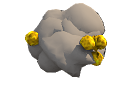
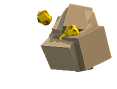
Phase 8 fixes: ground at 2x resolution, drier prairie, light sand, angular rocks and gold veins
The terrain layer was built at 64 px per tile and scaled up without smoothing while sprites
come from 128 px assets, so the ground looked blurry next to them. It is now built at 2x.
Grass is dry straw/khaki with sparse green patches, sand is a separate pale texture, rocks and
gold veins are angular sandstone slabs instead of smooth blobs. ROADMAP phase table renumbered
(new phase 9: UI like the original).

Claude-Session: https://claude.ai/code/session_01JErzzkwvXvthRwh7LyPnGT

diff --git a/assets/manifest.js b/assets/manifest.js
@@ -1,2 +1,2 @@
 // Wygenerowane przez tools/art/build_assets.js, nie edytować ręcznie.
-window.ASSETS = {"ground_ochre":{"file":"assets/terrain/ground_ochre.png","tw":128,"th":64,"cols":6,"rows":6,"period":6},"ground_olive":{"file":"assets/terrain/ground_olive.png","tw":128,"th":64,"cols":6,"rows":6,"period":6},"ground_dirt":{"file":"assets/terrain/ground_dirt.png","tw":128,"th":64,"cols":6,"rows":6,"period":6},"tree_oak0":{"file":"assets/trees/tree_oak0.png","shadow":"assets/trees/tree_oak0_shadow.png","w":259,"h":233,"ax":184,"ay":166},"tree_oak1":{"file":"assets/trees/tree_oak1.png","shadow":"assets/trees/tree_oak1_shadow.png","w":271,"h":232,"ax":186,"ay":166},"tree_pine":{"file":"assets/trees/tree_pine.png","shadow":"assets/trees/tree_pine_shadow.png","w":264,"h":239,"ax":184,"ay":185},"tree_dead":{"file":"assets/trees/tree_dead.png","shadow":"assets/trees/tree_dead_shadow.png","w":150,"h":172,"ax":131,"ay":135},"prop_rock0":{"file":"assets/props/prop_rock0.png","shadow":"assets/props/prop_rock0_shadow.png","w":84,"h":54,"ax":47,"ay":35},"prop_rock1":{"file":"assets/props/prop_rock1.png","shadow":"assets/props/prop_rock1_shadow.png","w":63,"h":44,"ax":33,"ay":26},"prop_bush0":{"file":"assets/props/prop_bush0.png","shadow":"assets/props/prop_bush0_shadow.png","w":135,"h":87,"ax":79,"ay":55},"prop_bush1":{"file":"assets/props/prop_bush1.png","shadow":"assets/props/prop_bush1_shadow.png","w":97,"h":65,"ax":58,"ay":38},"prop_tuft0":{"file":"assets/props/prop_tuft0.png","shadow":"assets/props/prop_tuft0_shadow.png","w":21,"h":41,"ax":11,"ay":36},"prop_tuft1":{"file":"assets/props/prop_tuft1.png","shadow":"assets/props/prop_tuft1_shadow.png","w":20,"h":33,"ax":10,"ay":29},"gold_vein0":{"file":"assets/props/gold_vein0.png","shadow":"assets/props/gold_vein0_shadow.png","w":117,"h":90,"ax":78,"ay":61},"gold_vein1":{"file":"assets/props/gold_vein1.png","shadow":"assets/props/gold_vein1_shadow.png","w":124,"h":84,"ax":72,"ay":51},"carcass":{"file":"assets/props/carcass.png","shadow":"assets/props/carcass_shadow.png","w":99,"h":70,"ax":55,"ay":44},"bld_house_us":{"file":"assets/buildings/bld_house_us.png","shadow":"assets/buildings/bld_house_us_shadow.png","w":314,"h":237,"ax":171,"ay":159},"bld_hq_us":{"file":"assets/buildings/bld_hq_us.png","shadow":"assets/buildings/bld_hq_us_shadow.png","w":472,"h":388,"ax":275,"ay":278},"bld_barracks_us":{"file":"assets/buildings/bld_barracks_us.png","shadow":"assets/buildings/bld_barracks_us_shadow.png","w":324,"h":232,"ax":174,"ay":152},"bld_factory_us":{"file":"assets/buildings/bld_factory_us.png","shadow":"assets/buildings/bld_factory_us_shadow.png","w":300,"h":222,"ax":164,"ay":146},"bld_storehouse_us":{"file":"assets/buildings/bld_storehouse_us.png","shadow":"assets/buildings/bld_storehouse_us_shadow.png","w":305,"h":188,"ax":177,"ay":110},"bld_zagroda_us":{"file":"assets/buildings/bld_zagroda_us.png","shadow":"assets/buildings/bld_zagroda_us_shadow.png","w":291,"h":173,"ax":160,"ay":101},"bld_farm_us":{"file":"assets/buildings/bld_farm_us.png","shadow":"assets/buildings/bld_farm_us_shadow.png","w":276,"h":159,"ax":149,"ay":88},"bld_house_ban":{"file":"assets/buildings/bld_house_ban.png","shadow":"assets/buildings/bld_house_ban_shadow.png","w":335,"h":238,"ax":193,"ay":161},"bld_hq_ban":{"file":"assets/buildings/bld_hq_ban.png","shadow":"assets/buildings/bld_hq_ban_shadow.png","w":488,"h":325,"ax":279,"ay":213},"bld_barracks_ban":{"file":"assets/buildings/bld_barracks_ban.png","shadow":"assets/buildings/bld_barracks_ban_shadow.png","w":331,"h":217,"ax":184,"ay":137},"bld_factory_ban":{"file":"assets/buildings/bld_factory_ban.png","shadow":"assets/buildings/bld_factory_ban_shadow.png","w":307,"h":221,"ax":174,"ay":146},"bld_storehouse_ban":{"file":"assets/buildings/bld_storehouse_ban.png","shadow":"assets/buildings/bld_storehouse_ban_shadow.png","w":305,"h":188,"ax":177,"ay":110},"bld_zagroda_ban":{"file":"assets/buildings/bld_zagroda_ban.png","shadow":"assets/buildings/bld_zagroda_ban_shadow.png","w":291,"h":173,"ax":160,"ay":101},"bld_farm_ban":{"file":"assets/buildings/bld_farm_ban.png","shadow":"assets/buildings/bld_farm_ban_shadow.png","w":276,"h":159,"ax":149,"ay":88},"bld_tepee_sx":{"file":"assets/buildings/bld_tepee_sx.png","shadow":"assets/buildings/bld_tepee_sx_shadow.png","w":311,"h":286,"ax":233,"ay":215},"bld_hq_sx":{"file":"assets/buildings/bld_hq_sx.png","shadow":"assets/buildings/bld_hq_sx_shadow.png","w":462,"h":409,"ax":334,"ay":308},"bld_barracks_sx":{"file":"assets/buildings/bld_barracks_sx.png","shadow":"assets/buildings/bld_barracks_sx_shadow.png","w":390,"h":341,"ax":278,"ay":256},"bld_storehouse_sx":{"file":"assets/buildings/bld_storehouse_sx.png","shadow":"assets/buildings/bld_storehouse_sx_shadow.png","w":223,"h":158,"ax":132,"ay":101},"bld_farm_sx":{"file":"assets/buildings/bld_farm_sx.png","shadow":"assets/buildings/bld_farm_sx_shadow.png","w":276,"h":159,"ax":149,"ay":88},"worker":{"shadow":"assets/units/worker_shadow.png","fw":91,"fh":82,"cols":4,"rows":8,"pad":1,"ax":64,"ay":61,"dirs":[0,45,90,135,180,225,270,315],"phases":4,"file_p":"assets/units/worker_p.png","file_e":"assets/units/worker_e.png"},"piechota":{"shadow":"assets/units/piechota_shadow.png","fw":100,"fh":88,"cols":4,"rows":8,"pad":1,"ax":63,"ay":65,"dirs":[0,45,90,135,180,225,270,315],"phases":4,"file_p":"assets/units/piechota_p.png","file_e":"assets/units/piechota_e.png"},"desperado":{"shadow":"assets/units/desperado_shadow.png","fw":101,"fh":88,"cols":4,"rows":8,"pad":1,"ax":64,"ay":65,"dirs":[0,45,90,135,180,225,270,315],"phases":4,"file_p":"assets/units/desperado_p.png","file_e":"assets/units/desperado_e.png"},"bandleader":{"shadow":"assets/units/bandleader_shadow.png","fw":109,"fh":95,"cols":4,"rows":8,"pad":1,"ax":69,"ay":70,"dirs":[0,45,90,135,180,225,270,315],"phases":4,"file_p":"assets/units/bandleader_p.png","file_e":"assets/units/bandleader_e.png"},"squaw":{"shadow":"assets/units/squaw_shadow.png","fw":79,"fh":70,"cols":4,"rows":8,"pad":1,"ax":54,"ay":53,"dirs":[0,45,90,135,180,225,270,315],"phases":4,"file_p":"assets/units/squaw_p.png","file_e":"assets/units/squaw_e.png"},"wojownik":{"shadow":"assets/units/wojownik_shadow.png","fw":86,"fh":77,"cols":4,"rows":8,"pad":1,"ax":59,"ay":58,"dirs":[0,45,90,135,180,225,270,315],"phases":4,"file_p":"assets/units/wojownik_p.png","file_e":"assets/units/wojownik_e.png"},"lucznik":{"shadow":"assets/units/lucznik_shadow.png","fw":90,"fh":86,"cols":4,"rows":8,"pad":1,"ax":63,"ay":63,"dirs":[0,45,90,135,180,225,270,315],"phases":4,"file_p":"assets/units/lucznik_p.png","file_e":"assets/units/lucznik_e.png"},"medicine":{"shadow":"assets/units/medicine_shadow.png","fw":86,"fh":77,"cols":4,"rows":8,"pad":1,"ax":59,"ay":58,"dirs":[0,45,90,135,180,225,270,315],"phases":4,"file_p":"assets/units/medicine_p.png","file_e":"assets/units/medicine_e.png"},"wodz":{"shadow":"assets/units/wodz_shadow.png","fw":93,"fh":83,"cols":4,"rows":8,"pad":1,"ax":64,"ay":63,"dirs":[0,45,90,135,180,225,270,315],"phases":4,"file_p":"assets/units/wodz_p.png","file_e":"assets/units/wodz_e.png"},"jezdiec":{"shadow":"assets/units/jezdiec_shadow.png","fw":168,"fh":137,"cols":4,"rows":8,"pad":1,"ax":116,"ay":94,"dirs":[0,45,90,135,180,225,270,315],"phases":4,"file_p":"assets/units/jezdiec_p.png","file_e":"assets/units/jezdiec_e.png"},"konnobanda":{"shadow":"assets/units/konnobanda_shadow.png","fw":168,"fh":140,"cols":4,"rows":8,"pad":1,"ax":116,"ay":97,"dirs":[0,45,90,135,180,225,270,315],"phases":4,"file_p":"assets/units/konnobanda_p.png","file_e":"assets/units/konnobanda_e.png"},"horse":{"shadow":"assets/units/horse_shadow.png","fw":168,"fh":136,"cols":4,"rows":8,"pad":1,"ax":116,"ay":93,"dirs":[0,45,90,135,180,225,270,315],"phases":4,"file":"assets/units/horse.png"},"bizon":{"shadow":"assets/units/bizon_shadow.png","fw":162,"fh":111,"cols":1,"rows":8,"pad":1,"ax":95,"ay":71,"dirs":[0,45,90,135,180,225,270,315],"phases":1,"file":"assets/units/bizon.png"},"bydlo":{"shadow":"assets/units/bydlo_shadow.png","fw":139,"fh":100,"cols":1,"rows":8,"pad":1,"ax":87,"ay":64,"dirs":[0,45,90,135,180,225,270,315],"phases":1,"file":"assets/units/bydlo.png"},"frontiersman":{"shadow":"assets/units/frontiersman_shadow.png","fw":91,"fh":82,"cols":4,"rows":8,"pad":1,"ax":64,"ay":61,"dirs":[0,45,90,135,180,225,270,315],"phases":4,"file_p":"assets/units/frontiersman_p.png","file_e":"assets/units/frontiersman_e.png"},"frontierswoman":{"shadow":"assets/units/frontierswoman_shadow.png","fw":80,"fh":70,"cols":4,"rows":8,"pad":1,"ax":55,"ay":53,"dirs":[0,45,90,135,180,225,270,315],"phases":4,"file_p":"assets/units/frontierswoman_p.png","file_e":"assets/units/frontierswoman_e.png"},"szeryf":{"shadow":"assets/units/szeryf_shadow.png","fw":109,"fh":95,"cols":4,"rows":8,"pad":1,"ax":69,"ay":70,"dirs":[0,45,90,135,180,225,270,315],"phases":4,"file_p":"assets/units/szeryf_p.png","file_e":"assets/units/szeryf_e.png"},"armata":{"shadow":"assets/units/armata_shadow.png","fw":166,"fh":115,"cols":1,"rows":8,"pad":1,"ax":101,"ay":74,"dirs":[0,45,90,135,180,225,270,315],"phases":1,"file_p":"assets/units/armata_p.png","file_e":"assets/units/armata_e.png"},"bld_bank_us":{"file":"assets/buildings/bld_bank_us.png","shadow":"assets/buildings/bld_bank_us_shadow.png","w":365,"h":251,"ax":210,"ay":167},"bld_ranch_us":{"file":"assets/buildings/bld_ranch_us.png","shadow":"assets/buildings/bld_ranch_us_shadow.png","w":363,"h":284,"ax":205,"ay":172},"ground_grass":{"file":"assets/terrain/ground_grass.png","tw":128,"th":64,"cols":6,"rows":6,"period":6},"ground_gravel":{"file":"assets/terrain/ground_gravel.png","tw":128,"th":64,"cols":6,"rows":6,"period":6},"ground_water":{"file":"assets/terrain/ground_water.png","tw":128,"th":64,"cols":6,"rows":6,"period":6},"prop_tuft2":{"file":"assets/props/prop_tuft2.png","shadow":"assets/props/prop_tuft2_shadow.png","w":16,"h":31,"ax":5,"ay":25},"prop_rock2":{"file":"assets/props/prop_rock2.png","shadow":"assets/props/prop_rock2_shadow.png","w":94,"h":73,"ax":53,"ay":52},"prop_reed0":{"file":"assets/props/prop_reed0.png","shadow":"assets/props/prop_reed0_shadow.png","w":79,"h":78,"ax":57,"ay":54},"prop_reed1":{"file":"assets/props/prop_reed1.png","shadow":"assets/props/prop_reed1_shadow.png","w":73,"h":73,"ax":54,"ay":52},"prop_reed2":{"file":"assets/props/prop_reed2.png","shadow":"assets/props/prop_reed2_shadow.png","w":87,"h":96,"ax":66,"ay":70}};
+window.ASSETS = {"ground_ochre":{"file":"assets/terrain/ground_ochre.png","tw":128,"th":64,"cols":6,"rows":6,"period":6},"ground_olive":{"file":"assets/terrain/ground_olive.png","tw":128,"th":64,"cols":6,"rows":6,"period":6},"ground_dirt":{"file":"assets/terrain/ground_dirt.png","tw":128,"th":64,"cols":6,"rows":6,"period":6},"tree_oak0":{"file":"assets/trees/tree_oak0.png","shadow":"assets/trees/tree_oak0_shadow.png","w":259,"h":233,"ax":184,"ay":166},"tree_oak1":{"file":"assets/trees/tree_oak1.png","shadow":"assets/trees/tree_oak1_shadow.png","w":271,"h":232,"ax":186,"ay":166},"tree_pine":{"file":"assets/trees/tree_pine.png","shadow":"assets/trees/tree_pine_shadow.png","w":264,"h":239,"ax":184,"ay":185},"tree_dead":{"file":"assets/trees/tree_dead.png","shadow":"assets/trees/tree_dead_shadow.png","w":150,"h":172,"ax":131,"ay":135},"prop_rock0":{"file":"assets/props/prop_rock0.png","shadow":"assets/props/prop_rock0_shadow.png","w":97,"h":62,"ax":58,"ay":41},"prop_rock1":{"file":"assets/props/prop_rock1.png","shadow":"assets/props/prop_rock1_shadow.png","w":67,"h":44,"ax":35,"ay":27},"prop_bush0":{"file":"assets/props/prop_bush0.png","shadow":"assets/props/prop_bush0_shadow.png","w":135,"h":87,"ax":79,"ay":55},"prop_bush1":{"file":"assets/props/prop_bush1.png","shadow":"assets/props/prop_bush1_shadow.png","w":97,"h":65,"ax":58,"ay":38},"prop_tuft0":{"file":"assets/props/prop_tuft0.png","shadow":"assets/props/prop_tuft0_shadow.png","w":21,"h":41,"ax":11,"ay":36},"prop_tuft1":{"file":"assets/props/prop_tuft1.png","shadow":"assets/props/prop_tuft1_shadow.png","w":20,"h":33,"ax":10,"ay":29},"gold_vein0":{"file":"assets/props/gold_vein0.png","shadow":"assets/props/gold_vein0_shadow.png","w":117,"h":89,"ax":64,"ay":59},"gold_vein1":{"file":"assets/props/gold_vein1.png","shadow":"assets/props/gold_vein1_shadow.png","w":122,"h":81,"ax":76,"ay":49},"carcass":{"file":"assets/props/carcass.png","shadow":"assets/props/carcass_shadow.png","w":99,"h":70,"ax":55,"ay":44},"bld_house_us":{"file":"assets/buildings/bld_house_us.png","shadow":"assets/buildings/bld_house_us_shadow.png","w":314,"h":237,"ax":171,"ay":159},"bld_hq_us":{"file":"assets/buildings/bld_hq_us.png","shadow":"assets/buildings/bld_hq_us_shadow.png","w":472,"h":388,"ax":275,"ay":278},"bld_barracks_us":{"file":"assets/buildings/bld_barracks_us.png","shadow":"assets/buildings/bld_barracks_us_shadow.png","w":324,"h":232,"ax":174,"ay":152},"bld_factory_us":{"file":"assets/buildings/bld_factory_us.png","shadow":"assets/buildings/bld_factory_us_shadow.png","w":300,"h":222,"ax":164,"ay":146},"bld_storehouse_us":{"file":"assets/buildings/bld_storehouse_us.png","shadow":"assets/buildings/bld_storehouse_us_shadow.png","w":305,"h":188,"ax":177,"ay":110},"bld_zagroda_us":{"file":"assets/buildings/bld_zagroda_us.png","shadow":"assets/buildings/bld_zagroda_us_shadow.png","w":291,"h":173,"ax":160,"ay":101},"bld_farm_us":{"file":"assets/buildings/bld_farm_us.png","shadow":"assets/buildings/bld_farm_us_shadow.png","w":276,"h":159,"ax":149,"ay":88},"bld_house_ban":{"file":"assets/buildings/bld_house_ban.png","shadow":"assets/buildings/bld_house_ban_shadow.png","w":335,"h":238,"ax":193,"ay":161},"bld_hq_ban":{"file":"assets/buildings/bld_hq_ban.png","shadow":"assets/buildings/bld_hq_ban_shadow.png","w":488,"h":325,"ax":279,"ay":213},"bld_barracks_ban":{"file":"assets/buildings/bld_barracks_ban.png","shadow":"assets/buildings/bld_barracks_ban_shadow.png","w":331,"h":217,"ax":184,"ay":137},"bld_factory_ban":{"file":"assets/buildings/bld_factory_ban.png","shadow":"assets/buildings/bld_factory_ban_shadow.png","w":307,"h":221,"ax":174,"ay":146},"bld_storehouse_ban":{"file":"assets/buildings/bld_storehouse_ban.png","shadow":"assets/buildings/bld_storehouse_ban_shadow.png","w":305,"h":188,"ax":177,"ay":110},"bld_zagroda_ban":{"file":"assets/buildings/bld_zagroda_ban.png","shadow":"assets/buildings/bld_zagroda_ban_shadow.png","w":291,"h":173,"ax":160,"ay":101},"bld_farm_ban":{"file":"assets/buildings/bld_farm_ban.png","shadow":"assets/buildings/bld_farm_ban_shadow.png","w":276,"h":159,"ax":149,"ay":88},"bld_tepee_sx":{"file":"assets/buildings/bld_tepee_sx.png","shadow":"assets/buildings/bld_tepee_sx_shadow.png","w":311,"h":286,"ax":233,"ay":215},"bld_hq_sx":{"file":"assets/buildings/bld_hq_sx.png","shadow":"assets/buildings/bld_hq_sx_shadow.png","w":462,"h":409,"ax":334,"ay":308},"bld_barracks_sx":{"file":"assets/buildings/bld_barracks_sx.png","shadow":"assets/buildings/bld_barracks_sx_shadow.png","w":390,"h":341,"ax":278,"ay":256},"bld_storehouse_sx":{"file":"assets/buildings/bld_storehouse_sx.png","shadow":"assets/buildings/bld_storehouse_sx_shadow.png","w":223,"h":158,"ax":132,"ay":101},"bld_farm_sx":{"file":"assets/buildings/bld_farm_sx.png","shadow":"assets/buildings/bld_farm_sx_shadow.png","w":276,"h":159,"ax":149,"ay":88},"worker":{"shadow":"assets/units/worker_shadow.png","fw":91,"fh":82,"cols":4,"rows":8,"pad":1,"ax":64,"ay":61,"dirs":[0,45,90,135,180,225,270,315],"phases":4,"file_p":"assets/units/worker_p.png","file_e":"assets/units/worker_e.png"},"piechota":{"shadow":"assets/units/piechota_shadow.png","fw":100,"fh":88,"cols":4,"rows":8,"pad":1,"ax":63,"ay":65,"dirs":[0,45,90,135,180,225,270,315],"phases":4,"file_p":"assets/units/piechota_p.png","file_e":"assets/units/piechota_e.png"},"desperado":{"shadow":"assets/units/desperado_shadow.png","fw":101,"fh":88,"cols":4,"rows":8,"pad":1,"ax":64,"ay":65,"dirs":[0,45,90,135,180,225,270,315],"phases":4,"file_p":"assets/units/desperado_p.png","file_e":"assets/units/desperado_e.png"},"bandleader":{"shadow":"assets/units/bandleader_shadow.png","fw":109,"fh":95,"cols":4,"rows":8,"pad":1,"ax":69,"ay":70,"dirs":[0,45,90,135,180,225,270,315],"phases":4,"file_p":"assets/units/bandleader_p.png","file_e":"assets/units/bandleader_e.png"},"squaw":{"shadow":"assets/units/squaw_shadow.png","fw":79,"fh":70,"cols":4,"rows":8,"pad":1,"ax":54,"ay":53,"dirs":[0,45,90,135,180,225,270,315],"phases":4,"file_p":"assets/units/squaw_p.png","file_e":"assets/units/squaw_e.png"},"wojownik":{"shadow":"assets/units/wojownik_shadow.png","fw":86,"fh":77,"cols":4,"rows":8,"pad":1,"ax":59,"ay":58,"dirs":[0,45,90,135,180,225,270,315],"phases":4,"file_p":"assets/units/wojownik_p.png","file_e":"assets/units/wojownik_e.png"},"lucznik":{"shadow":"assets/units/lucznik_shadow.png","fw":90,"fh":86,"cols":4,"rows":8,"pad":1,"ax":63,"ay":63,"dirs":[0,45,90,135,180,225,270,315],"phases":4,"file_p":"assets/units/lucznik_p.png","file_e":"assets/units/lucznik_e.png"},"medicine":{"shadow":"assets/units/medicine_shadow.png","fw":86,"fh":77,"cols":4,"rows":8,"pad":1,"ax":59,"ay":58,"dirs":[0,45,90,135,180,225,270,315],"phases":4,"file_p":"assets/units/medicine_p.png","file_e":"assets/units/medicine_e.png"},"wodz":{"shadow":"assets/units/wodz_shadow.png","fw":93,"fh":83,"cols":4,"rows":8,"pad":1,"ax":64,"ay":63,"dirs":[0,45,90,135,180,225,270,315],"phases":4,"file_p":"assets/units/wodz_p.png","file_e":"assets/units/wodz_e.png"},"jezdiec":{"shadow":"assets/units/jezdiec_shadow.png","fw":168,"fh":137,"cols":4,"rows":8,"pad":1,"ax":116,"ay":94,"dirs":[0,45,90,135,180,225,270,315],"phases":4,"file_p":"assets/units/jezdiec_p.png","file_e":"assets/units/jezdiec_e.png"},"konnobanda":{"shadow":"assets/units/konnobanda_shadow.png","fw":168,"fh":140,"cols":4,"rows":8,"pad":1,"ax":116,"ay":97,"dirs":[0,45,90,135,180,225,270,315],"phases":4,"file_p":"assets/units/konnobanda_p.png","file_e":"assets/units/konnobanda_e.png"},"horse":{"shadow":"assets/units/horse_shadow.png","fw":168,"fh":136,"cols":4,"rows":8,"pad":1,"ax":116,"ay":93,"dirs":[0,45,90,135,180,225,270,315],"phases":4,"file":"assets/units/horse.png"},"bizon":{"shadow":"assets/units/bizon_shadow.png","fw":162,"fh":111,"cols":1,"rows":8,"pad":1,"ax":95,"ay":71,"dirs":[0,45,90,135,180,225,270,315],"phases":1,"file":"assets/units/bizon.png"},"bydlo":{"shadow":"assets/units/bydlo_shadow.png","fw":139,"fh":100,"cols":1,"rows":8,"pad":1,"ax":87,"ay":64,"dirs":[0,45,90,135,180,225,270,315],"phases":1,"file":"assets/units/bydlo.png"},"frontiersman":{"shadow":"assets/units/frontiersman_shadow.png","fw":91,"fh":82,"cols":4,"rows":8,"pad":1,"ax":64,"ay":61,"dirs":[0,45,90,135,180,225,270,315],"phases":4,"file_p":"assets/units/frontiersman_p.png","file_e":"assets/units/frontiersman_e.png"},"frontierswoman":{"shadow":"assets/units/frontierswoman_shadow.png","fw":80,"fh":70,"cols":4,"rows":8,"pad":1,"ax":55,"ay":53,"dirs":[0,45,90,135,180,225,270,315],"phases":4,"file_p":"assets/units/frontierswoman_p.png","file_e":"assets/units/frontierswoman_e.png"},"szeryf":{"shadow":"assets/units/szeryf_shadow.png","fw":109,"fh":95,"cols":4,"rows":8,"pad":1,"ax":69,"ay":70,"dirs":[0,45,90,135,180,225,270,315],"phases":4,"file_p":"assets/units/szeryf_p.png","file_e":"assets/units/szeryf_e.png"},"armata":{"shadow":"assets/units/armata_shadow.png","fw":166,"fh":115,"cols":1,"rows":8,"pad":1,"ax":101,"ay":74,"dirs":[0,45,90,135,180,225,270,315],"phases":1,"file_p":"assets/units/armata_p.png","file_e":"assets/units/armata_e.png"},"bld_bank_us":{"file":"assets/buildings/bld_bank_us.png","shadow":"assets/buildings/bld_bank_us_shadow.png","w":365,"h":251,"ax":210,"ay":167},"bld_ranch_us":{"file":"assets/buildings/bld_ranch_us.png","shadow":"assets/buildings/bld_ranch_us_shadow.png","w":363,"h":284,"ax":205,"ay":172},"ground_grass":{"file":"assets/terrain/ground_grass.png","tw":128,"th":64,"cols":6,"rows":6,"period":6},"ground_gravel":{"file":"assets/terrain/ground_gravel.png","tw":128,"th":64,"cols":6,"rows":6,"period":6},"ground_water":{"file":"assets/terrain/ground_water.png","tw":128,"th":64,"cols":6,"rows":6,"period":6},"prop_tuft2":{"file":"assets/props/prop_tuft2.png","shadow":"assets/props/prop_tuft2_shadow.png","w":16,"h":31,"ax":5,"ay":25},"prop_rock2":{"file":"assets/props/prop_rock2.png","shadow":"assets/props/prop_rock2_shadow.png","w":101,"h":80,"ax":60,"ay":59},"prop_reed0":{"file":"assets/props/prop_reed0.png","shadow":"assets/props/prop_reed0_shadow.png","w":79,"h":78,"ax":57,"ay":54},"prop_reed1":{"file":"assets/props/prop_reed1.png","shadow":"assets/props/prop_reed1_shadow.png","w":73,"h":73,"ax":54,"ay":52},"prop_reed2":{"file":"assets/props/prop_reed2.png","shadow":"assets/props/prop_reed2_shadow.png","w":87,"h":96,"ax":66,"ay":70},"ground_sand":{"file":"assets/terrain/ground_sand.png","tw":128,"th":64,"cols":6,"rows":6,"period":6}};

diff --git a/tools/art/build_nature.js b/tools/art/build_nature.js
@@ -8,7 +8,7 @@ const TS = 0.7;      // drzewa mniejsze niż model: oryginał ma korony ok. 1,5 
 const PERIOD = 6;   // okres tekstury gruntu w kaflach: 6x6 różnych kafli daje ciągłą powierzchnię bez szwów
 
 function terrain(lap) {
-  for (const [name, tex] of [['ochre', L.TX.ochre], ['olive', L.TX.olive], ['dirt', L.TX.dirt], ['grass', L.TX.grass], ['gravel', L.TX.gravel], ['water', L.TX.water]]) {
+  for (const [name, tex] of [['ochre', L.TX.ochre], ['olive', L.TX.olive], ['dirt', L.TX.dirt], ['grass', L.TX.grass], ['sand', L.TX.sand], ['gravel', L.TX.gravel], ['water', L.TX.water]]) {
     const gain = rt.groundGain(new rt.Camera({ tilePx: TILE, halfExtent: 3.6 }), { groundTexture: tex });
     const atlas = rt.makeImage(PERIOD * TILE, PERIOD * TILE / 2, 4), W = atlas.width;
     for (let j = 0; j < PERIOD; j++) for (let i = 0; i < PERIOD; i++) {
@@ -39,19 +39,26 @@ function props(lap) {
   rocks(); reeds();
   lap('rekwizyty');
 }
-// skały: kanciaste, łamane bryły (mało podziałów siatki = wyraźne ściany), szarobrązowy piaskowiec z ciemną szczeliną u dołu; zamiast gładkich "bułek"
-function rocks() {
-  const spec = [
-    ['prop_rock0', [[0, 0, 0.20, 0.34, 0.28, 0.22, 'a', 1], [0.26, 0.1, 0.12, 0.2, 0.17, 0.13, 'b', 2], [-0.22, -0.12, 0.1, 0.16, 0.14, 0.1, 'a', 3]]],
-    ['prop_rock1', [[0, 0, 0.14, 0.22, 0.18, 0.14, 'a', 4], [0.18, -0.08, 0.08, 0.12, 0.1, 0.08, 'b', 5]]],
-    ['prop_rock2', [[0, 0, 0.30, 0.3, 0.26, 0.3, 'a', 6], [-0.05, 0.05, 0.52, 0.2, 0.18, 0.18, 'b', 7], [0.3, 0.12, 0.1, 0.18, 0.15, 0.1, 'b', 8]]],
-  ];
-  for (const [key, parts] of spec) {
-    const m = model(null); m.material('rockA', { color: [0.55, 0.50, 0.43] }); m.material('rockB', { color: [0.42, 0.37, 0.31] }); m.material('crack', { color: [0.22, 0.19, 0.15] });
-    m.blob('crack', [0, 0, 0.05], [0.4, 0.34, 0.06], { seed: 9, roughness: 0.3, subdivisions: 1 });
-    for (const [x, y, z, rx, ry, rz, mt, sd] of parts) m.blob(mt === 'a' ? 'rockA' : 'rockB', [x, y, z], [rx, ry, rz], { seed: sd, roughness: 0.62, subdivisions: 1 });
-    saveStatic(key, rt.renderSprite(m, cam(1.2, [0, 0, 0.25], 0.8), { groundTexture: TX.ochre }), 'props');
+// skały: pęki obróconych płyt i brył (wyraźne płaskie ściany i ostre krawędzie), ciepły piaskowiec z ciemniejszymi blokami i szczeliną u dołu; gładkie elipsoidy wyglądały jak bułki
+const mul = (A, B) => A.map((r, i) => [0, 1, 2].map(j => r[0] * B[0][j] + r[1] * B[1][j] + r[2] * B[2][j]));
+function rockModel(spec, seed) {
+  const m = model(null); m.material('rockA', { color: [0.58, 0.41, 0.23] }); m.material('rockB', { color: [0.40, 0.28, 0.15] }); m.material('rockC', { color: [0.68, 0.52, 0.31] }); m.material('crack', { color: [0.24, 0.18, 0.12] });
+  m.box('crack', [0, 0, 0.03], [0.62, 0.5, 0.06], { rotation: rt.rotZ(0.4) });
+  const r = rt.makeRng(seed);
+  for (const [x, y, z, sx, sy, sz, mt] of spec) {
+    const rot = mul(rt.rotZ(r.uniform(0, 3.14)), mul(rt.rotY(r.uniform(-0.35, 0.35)), rt.rotX(r.uniform(-0.35, 0.35))));
+    m.box(mt === 'a' ? 'rockA' : mt === 'b' ? 'rockB' : 'rockC', [x, y, z], [sx, sy, sz], { rotation: rot });
   }
+  return m;
+}
+function rocks() {
+  const spec = {
+    prop_rock0: [[0, 0, 0.2, 0.46, 0.38, 0.4, 'a'], [0.3, 0.12, 0.12, 0.28, 0.24, 0.24, 'b'], [-0.2, -0.16, 0.34, 0.26, 0.22, 0.26, 'c']],
+    prop_rock1: [[0, 0, 0.13, 0.3, 0.26, 0.26, 'a'], [0.2, -0.1, 0.08, 0.16, 0.14, 0.14, 'b']],
+    prop_rock2: [[0, 0, 0.26, 0.5, 0.42, 0.5, 'b'], [-0.08, 0.06, 0.58, 0.32, 0.28, 0.3, 'a'], [0.34, 0.14, 0.1, 0.24, 0.2, 0.2, 'c'], [-0.3, -0.2, 0.12, 0.2, 0.2, 0.2, 'a']],
+  };
+  let n = 1;
+  for (const key in spec) saveStatic(key, rt.renderSprite(rockModel(spec[key], n++), cam(1.2, [0, 0, 0.25], 0.8), { groundTexture: TX.ochre }), 'props');
 }
 // trzciny i pałki wodne: pęk cienkich łodyg z lekkim odchyleniem, brunatne kolby na części łodyg
 function reeds() {
@@ -68,10 +75,13 @@ function reeds() {
 }
 function resources(lap) {
   for (const [key, seed] of [['gold_vein0', 3], ['gold_vein1', 11]]) {
-    const m = model(); m.material('rock', { color: [0.34, 0.28, 0.22] });
+    const m = model(); m.material('rock', { color: [0.50, 0.36, 0.20] }); m.material('rockD', { color: [0.33, 0.23, 0.13] });
     const rng = rt.makeRng(seed);
-    for (let i = 0; i < 4; i++) m.blob('rock', [rng.uniform(-0.3, 0.3), rng.uniform(-0.25, 0.25), 0.18], [rng.uniform(0.28, 0.4), rng.uniform(0.25, 0.35), rng.uniform(0.2, 0.32)], { seed: seed + i, roughness: 0.3, subdivisions: 2 });
-    for (let i = 0; i < 7; i++) m.blob('gold', [rng.uniform(-0.38, 0.38), rng.uniform(-0.32, 0.32), rng.uniform(0.12, 0.42)], [0.09, 0.08, 0.08], { seed: seed + 20 + i, roughness: 0.25, subdivisions: 1 });
+    for (let i = 0; i < 6; i++) {
+      const rot = mul(rt.rotZ(rng.uniform(0, 3.14)), mul(rt.rotY(rng.uniform(-0.35, 0.35)), rt.rotX(rng.uniform(-0.35, 0.35))));
+      m.box(i % 2 ? 'rock' : 'rockD', [rng.uniform(-0.32, 0.32), rng.uniform(-0.27, 0.27), 0.16 + 0.06 * (i % 3)], [rng.uniform(0.28, 0.5), rng.uniform(0.26, 0.44), rng.uniform(0.26, 0.46)], { rotation: rot });
+    }
+    for (let i = 0; i < 7; i++) m.blob('gold', [rng.uniform(-0.38, 0.38), rng.uniform(-0.32, 0.32), rng.uniform(0.12, 0.42)], [0.09, 0.08, 0.08], { seed: seed + 20 + i, roughness: 0.5, subdivisions: 1 });
     saveStatic(key, rt.renderSprite(m, cam(1.4, [0, 0, 0.3]), { groundTexture: TX.dirt }), 'props');
   }
   { const m = model(); m.material('meat', { color: [0.46, 0.16, 0.11] }); m.material('bone', { color: [0.85, 0.80, 0.68] });

diff --git a/index.html b/index.html
@@ -2340,8 +2340,8 @@ function drawGroundTile(ctx2, name, x, y, cx, cy) {
 }
 // teren: grunt bazowy + plamy piasku i żwiru (maski z miękkich plam, więc brzegi plam nie trzymają siatki kafli), woda z atlasu i brzeg (mokry piasek, płycizna, nierówna linia)
 const BIOMES = {
-  prairie: { base: 'grass', patches: [{ atlas: 'ochre', n: 16, r: [1.5, 3.5] }, { atlas: 'gravel', n: 12, r: [1, 2.4] }] },
-  olive:   { base: 'olive', patches: [{ atlas: 'ochre', n: 8, r: [1.2, 3] }, { atlas: 'gravel', n: 8, r: [1, 2.5] }] },
+  prairie: { base: 'grass', patches: [{ atlas: 'sand', n: 16, r: [1.5, 3.5] }, { atlas: 'gravel', n: 12, r: [1, 2.4] }] },
+  olive:   { base: 'olive', patches: [{ atlas: 'sand', n: 8, r: [1.2, 3] }, { atlas: 'gravel', n: 8, r: [1, 2.5] }] },
 };
 const N4 = [[1, 0], [0, 1], [-1, 0], [0, -1]], N8 = N4.concat([[1, 1], [-1, 1], [-1, -1], [1, -1]]);
 const isWaterAt = (x, y) => inMap(x, y) && S.terrain[idx(x, y)] === T_WATER;
@@ -2353,10 +2353,12 @@ function softBlob(g, cx, cy, rx, ry, stops) {
   g.fillStyle = gr; g.beginPath(); g.arc(0, 0, 1, 0, 7); g.fill(); g.restore();
 }
 let GL_TMP = null, GL_MASK = null;
+// warstwa terenu ma GS-krotną rozdzielczość świata (sprite'y są rysowane z zasobów 128 px, więc grunt w 64 px wyglądał przy nich na rozmyty); współrzędne dalej w jednostkach świata
+const GS = 2;
 function buildGround() {
-  const mk = () => { const c = document.createElement('canvas'); c.width = GL_W; c.height = GL_H; return c; };
-  const c = mk(), g = c.getContext('2d'); g.imageSmoothingEnabled = true;
-  GL_TMP = GL_TMP || mk(); GL_MASK = GL_MASK || mk();
+  const mk = () => { const c = document.createElement('canvas'); c.width = GL_W * GS; c.height = GL_H * GS; const k = c.getContext('2d'); k.scale(GS, GS); k.imageSmoothingEnabled = true; return c; };
+  const c = mk(), g = c.getContext('2d');
+  GL_TMP = mk(); GL_MASK = mk();
   const B = BIOMES[S.biome] || BIOMES.prairie, ms = S.mapSeed || 0;
   g.fillStyle = '#25444c'; g.fillRect(0, 0, GL_W, GL_H);
   // indeks brzegu: dla lądu kierunek (N4) do sąsiada-wody, dla wody do sąsiada-lądu; -1 = brak (rysowanie szuwarów)
@@ -2378,8 +2380,8 @@ function buildGround() {
       const bx = sprNoise(i, 100 + pi, ms) * MAP, by = sprNoise(i, 200 + pi, ms) * MAP, r = P.r[0] + sprNoise(i, 300 + pi, ms) * (P.r[1] - P.r[0]);
       softBlob(m, (bx - by) * CFG.tileW / 2 + GL_OX, (bx + by) * CFG.tileH / 2 + CFG.tileH / 2, r * CFG.tileW * 0.7, r * CFG.tileH * 0.7, [[0, 'rgba(255,255,255,1)'], [0.5, 'rgba(255,255,255,0.92)'], [1, 'rgba(255,255,255,0)']]);
     }
-    t.globalCompositeOperation = 'destination-in'; t.drawImage(GL_MASK, 0, 0);
-    g.drawImage(GL_TMP, 0, 0);
+    t.globalCompositeOperation = 'destination-in'; t.drawImage(GL_MASK, 0, 0, GL_W, GL_H);
+    g.drawImage(GL_TMP, 0, 0, GL_W, GL_H);
   });
   // brzeg: płycizna po stronie wody, mokry ciemny piasek na lądzie, nierówna jasna warga piasku na samej linii
   for (let y = 0; y < MAP; y++) for (let x = 0; x < MAP; x++) {
@@ -2401,6 +2403,7 @@ function buildGround() {
       }
     }
   }
+  GL_TMP.width = GL_MASK.width = 1; GL_TMP = GL_MASK = null;   // robocze płótna zwalniamy zaraz po budowie
   S.groundLayer = c;
 }
 // szuwary: na lądzie przy wodzie (po stronie wody) i rzadziej w płyciźnie; deterministycznie z kafla
@@ -2619,7 +2622,7 @@ function render() {
   const VW = canvasW / ZOOM, VH = canvasH / ZOOM; // widoczny fragment w px świata (do kullingu)
   const items = [];
   // teren: grunt to jedna warstwa rysowana raz na partię, pętla niżej nakłada tylko to, co dynamiczne
-  if (S.groundLayer) { ctx.imageSmoothingEnabled = false; ctx.drawImage(S.groundLayer, Math.round(cam.x - GL_OX), Math.round(cam.y)); }
+  if (S.groundLayer) { ctx.imageSmoothingEnabled = true; ctx.drawImage(S.groundLayer, Math.round(cam.x - GL_OX), Math.round(cam.y), GL_W, GL_H); }
   for (let y = 0; y < MAP; y++) for (let x = 0; x < MAP; x++) {
     const i = idx(x, y);
     const [sx, sy] = tileToScreen(x, y);

diff --git a/tools/art/lib.js b/tools/art/lib.js
@@ -30,14 +30,24 @@ function texOlive(size, seed) {   // oliwkowo-żółta trawa
     const f = 1 + 0.10 * blade[i]; return [c[0] * f, c[1] * f, c[2] * f];
   });
 }
-function texGrass(size, seed) {   // stonowana trawa preryjna: khaki z oliwkową zielenią, mniej pomarańczu niż ochra
-  const big = rt.fbm(size, seed, [5, 16]), mid = rt.fbm(size, seed + 1, [1.2, 3]), blade = rt.fbm(size, seed + 2, [0.5, 1.4], [0.4, 1.6]);
-  const dark = [0.27, 0.31, 0.12], base = [0.43, 0.46, 0.21], light = [0.58, 0.58, 0.30], dry = [0.62, 0.54, 0.30];
+function texGrass(size, seed) {   // sucha preria: słomkowo-khaki, zieleń tylko jako rzadkie, ciemniejsze plamy; drobny szum źdźbeł daje ostrość przy powiększeniu
+  const big = rt.fbm(size, seed, [5, 16]), mid = rt.fbm(size, seed + 1, [1.2, 3]), blade = rt.fbm(size, seed + 2, [0.5, 1.4], [0.4, 1.6]), fine = rt.fbm(size, seed + 3, [0.18, 0.5]), grn = rt.fbm(size, seed + 4, [6, 14]);
+  const dark = [0.33, 0.29, 0.13], base = [0.56, 0.50, 0.26], light = [0.72, 0.65, 0.38], dry = [0.68, 0.53, 0.28], green = [0.40, 0.45, 0.19];
   return paint(size, i => {
     const t = clamp(0.5 + 0.25 * big[i] + 0.15 * mid[i]);
     let c = t < 0.5 ? mix(dark, base, t * 2) : mix(base, light, (t - 0.5) * 2);
-    if (big[i] > 1.3) c = mix(c, dry, clamp((big[i] - 1.3) * 0.7));
-    const f = 1 + 0.10 * blade[i]; return [c[0] * f, c[1] * f, c[2] * f];
+    if (big[i] > 1.2) c = mix(c, dry, clamp((big[i] - 1.2) * 0.8));
+    if (grn[i] > 1.05) c = mix(c, green, clamp((grn[i] - 1.05) * 0.9));
+    const f = 1 + 0.12 * blade[i] + 0.16 * fine[i]; return [c[0] * f, c[1] * f, c[2] * f];
+  });
+}
+function texSand(size, seed) {   // piasek: jasny, zszarzały beż z drobnym ziarnem i słabymi zmarszczkami, bez pomarańczu ochry
+  const big = rt.fbm(size, seed, [4, 12]), mid = rt.fbm(size, seed + 1, [1.5, 4]), fine = rt.fbm(size, seed + 2, [0.2, 0.55]), rip = rt.fbm(size, seed + 3, [1.5, 4], [0.5, 3]);
+  const dark = [0.52, 0.42, 0.26], base = [0.72, 0.62, 0.42], light = [0.84, 0.76, 0.56];
+  return paint(size, i => {
+    const t = clamp(0.5 + 0.25 * big[i] + 0.12 * mid[i] + 0.06 * Math.abs(rip[i]));
+    const c = t < 0.5 ? mix(dark, base, t * 2) : mix(base, light, (t - 0.5) * 2), f = 1 + 0.12 * fine[i];
+    return [c[0] * f, c[1] * f, c[2] * f];
   });
 }
 function texGravel(size, seed) {   // żwirowisko: szarobeżowe kamyki w drobnej plamistej fakturze
@@ -79,7 +89,7 @@ function texWhite(size, seed) { const n = rt.fbm(size, seed, [2, 6]), f = rt.fbm
 function texGold(size, seed) { const n = rt.fbm(size, seed, [1.5, 4]); return paint(size, i => { const k = 1 + 0.18 * n[i]; return [0.92 * k, 0.70 * k, 0.12 * k]; }); }
 const T = rt.standardTextures();
 const TX = {
-  grass: texGrass(1024, 31), gravel: texGravel(1024, 51), water: texWater(1024, 61), ochre: texOchre(1024, 11), dirt: texOchre(1024, 41, 0.72), olive: texOlive(1024, 21),
+  grass: texGrass(1024, 31), sand: texSand(1024, 71), gravel: texGravel(1024, 51), water: texWater(1024, 61), ochre: texOchre(1024, 11), dirt: texOchre(1024, 41, 0.72), olive: texOlive(1024, 21),
   leaf: texAutumnLeaf(256, 5), needle: texRustNeedle(256, 8), hide: texHide(256, 3), pattern: texPattern(256, 4), gold: texGold(128, 2),
   grayPlanks: rt.adjustTexture(T.planks, { saturation: 0.28, brightness: 1.95 }), grayTimber: rt.adjustTexture(T.timber, { saturation: 0.35, brightness: 1.5 }), grayRoof: rt.adjustTexture(T.planks, { saturation: 0.22, brightness: 1.6 }),
   freshPlanks: rt.adjustTexture(T.planks, { saturation: 1.0, brightness: 1.35, contrast: 0.9 }), freshTimber: rt.adjustTexture(T.timber, { saturation: 0.95, brightness: 1.15 }), freshRoof: rt.adjustTexture(T.planks, { saturation: 0.8, brightness: 0.95 }),

diff --git a/ROADMAP.md b/ROADMAP.md
@@ -52,13 +52,14 @@ Fazy to grube tematy, podpunkty ich szczegóły. Te same numery są w planie pra
 | 4 | Narzędzia balansu (B0, B1) | ✅ |
 | 5 | Grafika w stylu oryginału (G1, G1b, G2) | ✅ |
 | 6 | Fundament: frakcje jako dane, trudność, zapis (C2) | ✅ |
-| 7 | Frakcja Osadnicy (C3) | 🔶 7.1 mechanika ✅, 7.2 grafika ✅, 7.3 bot i balans ✅ (bez ablacji banku), 7.4 dokumenty |
-| 8 | Teren i brzegi | ✅ 8.1 brzeg wody (płycizna, mokry piasek, nierówna linia, woda z atlasu), 8.2 szuwary i trzciny, 8.3 trawa khaki zamiast pomarańczowej (piasek zostaje ochrowy, w plamach), 8.4 zielone kępki i żwirowiska, 8.5 skały kanciaste zamiast „bułek”, 8.6 test. Wygląd do Twojej oceny w grze; szczegóły graficzne na sam koniec |
-| 9 | Mechaniki misyjne i Sioux (C8a, M0) | ⬜ 9.1 pakowanie tepee, 9.2 skradanie i wykrywanie, 9.3 etapy celów, 9.4 wóz kryty, eskorta, rabunek |
-| 10 | Kampanie Sioux i USA, misje 1–2 (M1) | ⬜ 10.1 szkielet misji, 10.2 Sioux, 10.3 USA |
-| 11 | Desperado, AI wszystkich frakcji, misje Desperado (C4, C4b, M2) | ⬜ |
-| 12 | Meksykanie i ich misje (C7, M3) | ⬜ |
-| 13 | Backlog | ⬜ add-on (technologie, tartak, obóz treningowy, restauracja, namiot starszyzny, tomahawk, pionier, Gatling, miotacz ognia, sabotuer, dyliżans), jednostki rzeczne, tutoriale (4 poziomy Indian), misje 3+, mapy 64/128/192 i A*, edytor poziomów, **multiplayer (mgliste TODO)** |
+| 7 | Frakcja Osadnicy (C3) | ✅ (bez ablacji banku, do zrobienia przed fazą 12) |
+| 8 | Teren i brzegi | 🔶 8.1–8.6 wypchnięte; 8.7 grunt w 2× rozdzielczości (był „niedoczytany”), 8.8 sucha preria i jasny piasek, 8.9 skały i żyły złota kanciaste; czeka na Twoją ocenę w grze |
+| 9 | Interfejs jak w oryginale (nowa): panele drewno/pergamin, ikony, pasek zasobów, minimapa, menu | ⬜ potrzebne zrzuty UI z oryginału |
+| 10 | Mechaniki misyjne i Sioux (C8a, M0) | ⬜ 10.1 pakowanie tepee, 10.2 skradanie i wykrywanie, 10.3 etapy celów, 10.4 wóz kryty, eskorta, rabunek |
+| 11 | Kampanie Sioux i USA, misje 1–2 (M1) | ⬜ 11.1 szkielet misji, 11.2 Sioux, 11.3 USA |
+| 12 | Desperado, AI wszystkich frakcji, misje Desperado (C4, C4b, M2) | ⬜ |
+| 13 | Meksykanie i ich misje (C7, M3) | ⬜ |
+| 14 | Backlog | ⬜ add-on, tutoriale, misje 3+, jednostki rzeczne, mapy 64/128/192 i A*, edytor, **multiplayer (mgliste TODO)** |
 
 Szczegóły zrobionych faz: 1 i 3 w sekcji 2 (dziennik napraw); 4 w sekcji 6; 5 w sekcji 5; 6: tabela `RACES`, 5 poziomów trudności (docs/parametry.md), zapis/odczyt w localStorage (wersjonowany JSON, stany obu RNG, test identycznego przebiegu po wczytaniu), testy z 14.5. Nie zrobione z fazy 6, przeniesione do fazy 11: wybór frakcji wroga, kapitulacja AI, zwiadowca przed falą.
 
